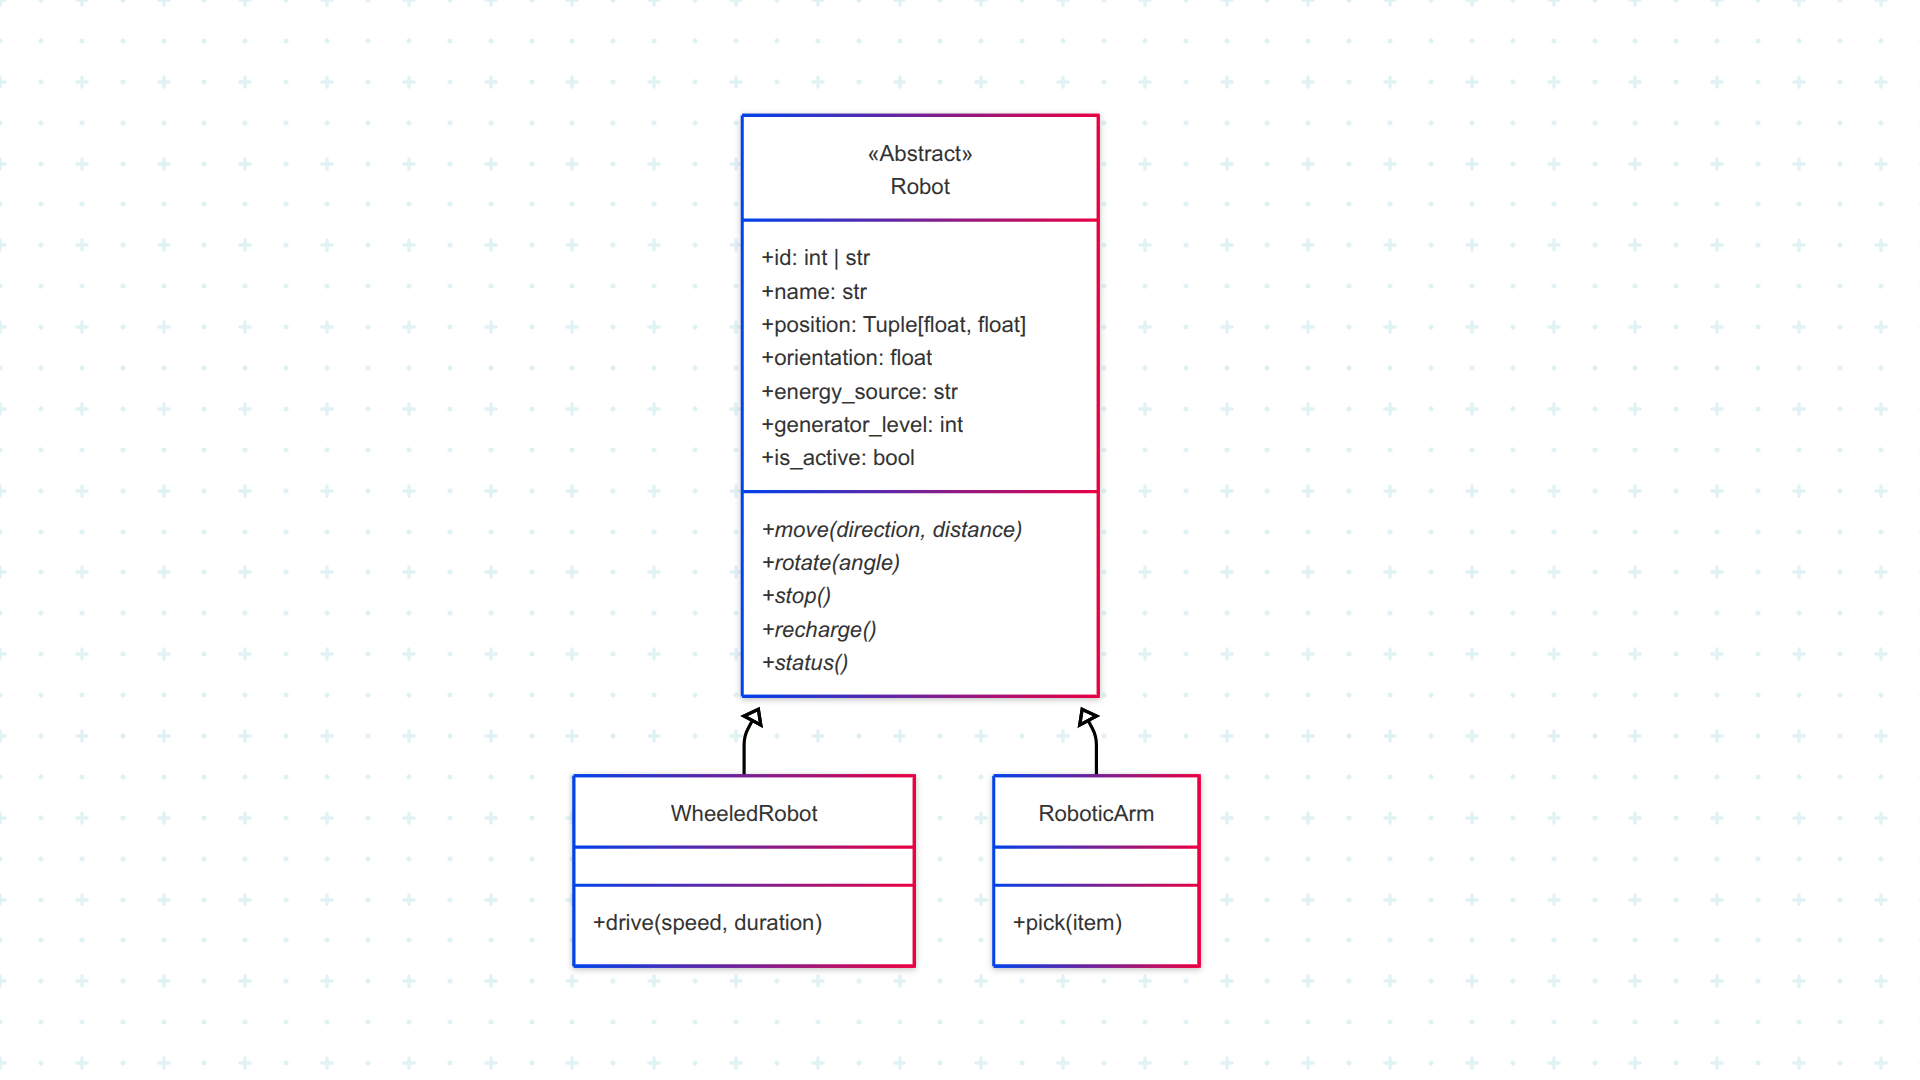
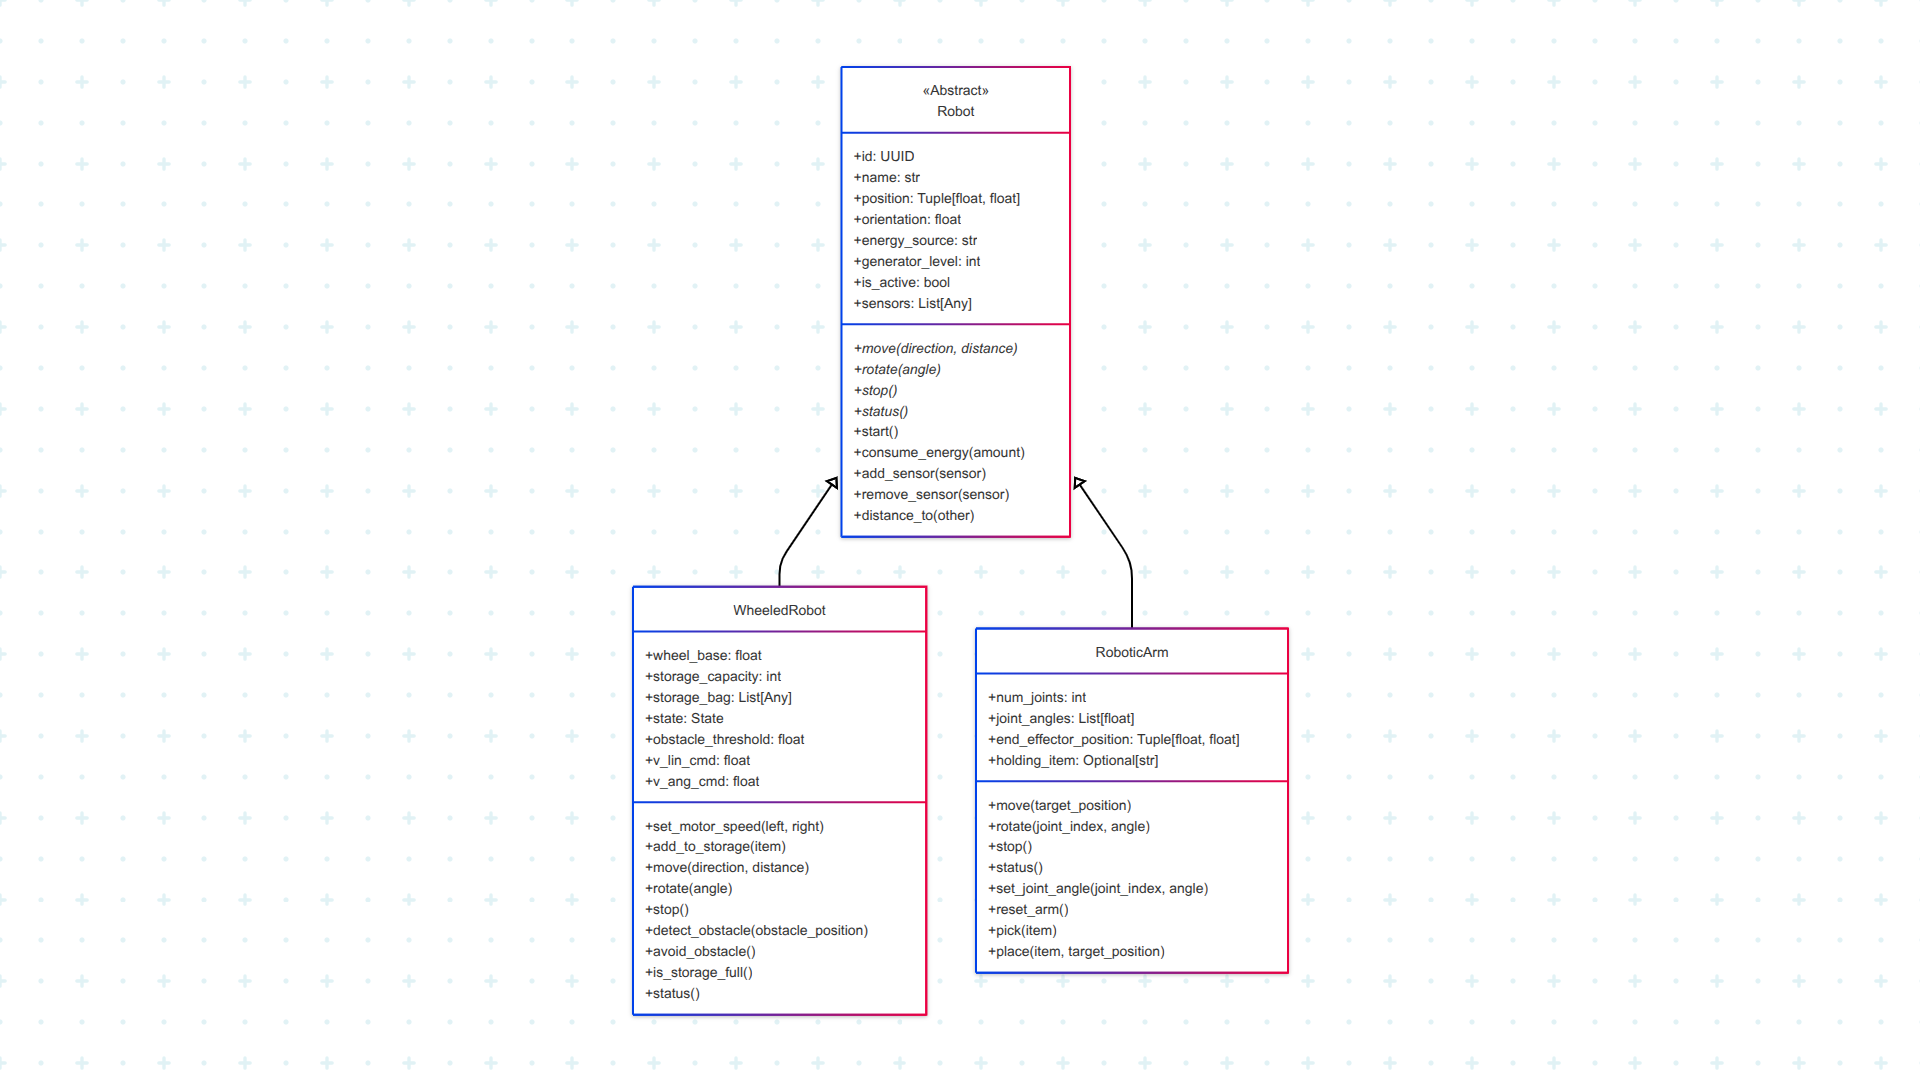
Remove README.md and update UML diagram and class descriptions in media/README.md to reflect recent changes in Robot, WheeledRobot, and RoboticArm classes.

Changed region(s): [[0.2812, 0.0611, 0.6562, 0.9472]]

diff --git a/media/README.md b/media/README.md
@@ -1,0 +1,79 @@
+# Robot Simulation Project
+
+This project simulates various types of robots, focusing on a robust object-oriented design with a base abstract robot class and two concrete implementations: a wheeled mobile robot and an articulated robotic arm.
+
+## Project Structure
+
+```
+Test 1/
+├── __init__.py
+├── robot.py         # Abstract base class for all robots
+├── wheeledRobot.py  # Wheeled mobile robot implementation
+└── roboticArm.py    # Articulated robotic arm implementation
+```
+
+## Class Overview
+
+### `Robot` (robot.py)
+- **Type:** Abstract Base Class
+- **Attributes:**
+  - `id`: Unique identifier (UUID)
+  - `name`: Robot name
+  - `position`: (x, y) coordinates (float, float)
+  - `orientation`: Orientation in radians
+  - `energy_source`: "solar", "fossil_fuel", or "electric"
+  - `generator_level`: Power level (int)
+  - `is_active`: Whether the robot is active (bool)
+  - `sensors`: List of attached sensors
+- **Key Methods:**
+  - `move(direction, distance)`: Abstract, move robot in a direction by a distance
+  - `rotate(angle)`: Abstract, rotate robot by an angle (radians)
+  - `stop()`: Abstract, stop robot movement
+  - `status()`: Abstract, get robot status as string
+  - `start()`: Activate the robot
+  - `consume_energy(amount)`: Consume energy from the generator
+  - `add_sensor(sensor)`, `remove_sensor(sensor)`: Manage sensors
+  - `distance_to(other)`: Compute distance to another point
+
+### `WheeledRobot` (wheeledRobot.py)
+- **Inherits:** `Robot`
+- **Additional Attributes:**
+  - `wheel_base`: Distance between wheels (float)
+  - `storage_capacity`: Max items in storage (int)
+  - `storage_bag`: List of stored items
+  - `state`: Current state (Enum: IDLE, NAVIGATING, etc.)
+  - `obstacle_threshold`: Minimum distance to detect obstacles
+  - `v_lin_cmd`, `v_ang_cmd`: Linear and angular speed commands
+- **Key Methods:**
+  - `set_motor_speed(left, right)`: Set wheel speeds
+  - `add_to_storage(item)`: Add item to storage
+  - `move(direction, distance)`: Move forward/backward
+  - `rotate(angle)`: Rotate robot
+  - `stop()`: Stop movement
+  - `detect_obstacle(obstacle_position)`: Detect nearby obstacles
+  - `avoid_obstacle()`: Perform obstacle avoidance
+  - `is_storage_full()`: Check if storage is full
+  - `status()`: Get robot status
+
+### `RoboticArm` (roboticArm.py)
+- **Inherits:** `Robot`
+- **Additional Attributes:**
+  - `num_joints`: Number of joints (int)
+  - `joint_angles`: List of joint angles (degrees)
+  - `end_effector_position`: (x, y) position of the end effector
+  - `holding_item`: Currently held item (optional)
+- **Key Methods:**
+  - `move(target_position)`: Move end effector to a position
+  - `rotate(joint_index, angle)`: Rotate a specific joint
+  - `stop()`: Stop all movements
+  - `status()`: Get arm status
+  - `set_joint_angle(joint_index, angle)`: Set a joint to a specific angle
+  - `reset_arm()`: Reset all joints and end effector
+  - `pick(item)`: Pick up an item
+  - `place(item, target_position)`: Place held item at a position
+
+## UML Class Diagram
+
+The following diagram reflects the actual class structure and main methods:
+
+![UML Class Diagram](media/diagram.png)`
